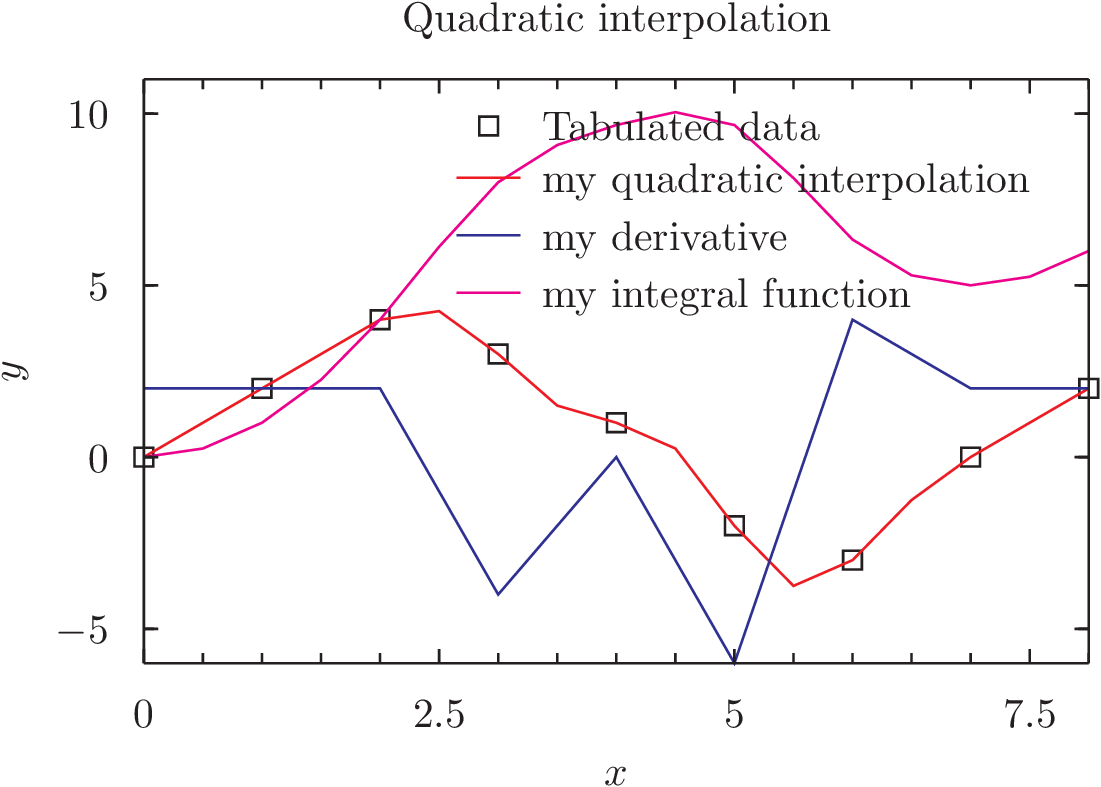
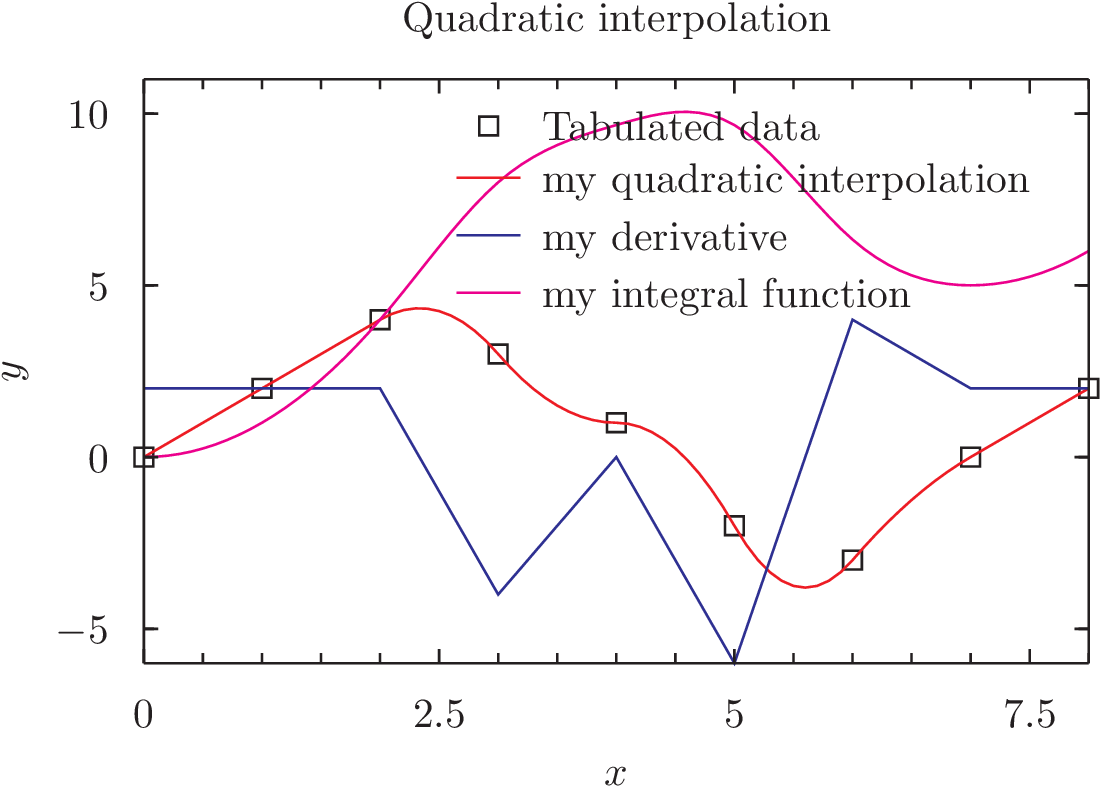
Missing comparison of ci

diff --git a/homework/interpolation/qinterp.c b/homework/interpolation/qinterp.c
@@ -134,7 +134,7 @@ qinterp* qinterp_alloc(gsl_vector* x,gsl_vector* y){
 
 	FILE* qinterp_file = fopen("qinterp.txt", "w");
 	int z=0;
-	double fine = 0.5;
+	double fine = 0.1;
 	while(z*fine<=gsl_vector_get(x,N-1)){
 		fprintf(qinterp_file, "%10g %10g %10g %10g\n", z*fine, qinterp_eval(s, z*fine), qinterp_der(s, z*fine), qinterp_integ(s,z*fine));
 		z++;
